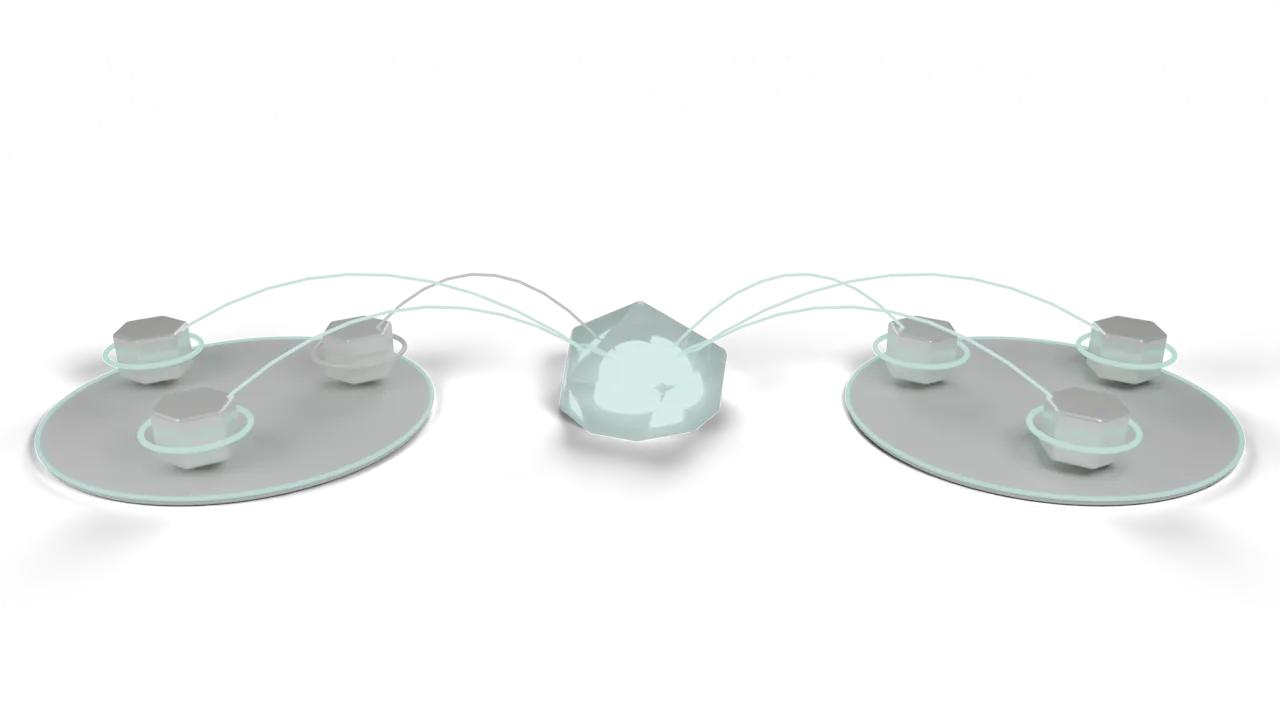
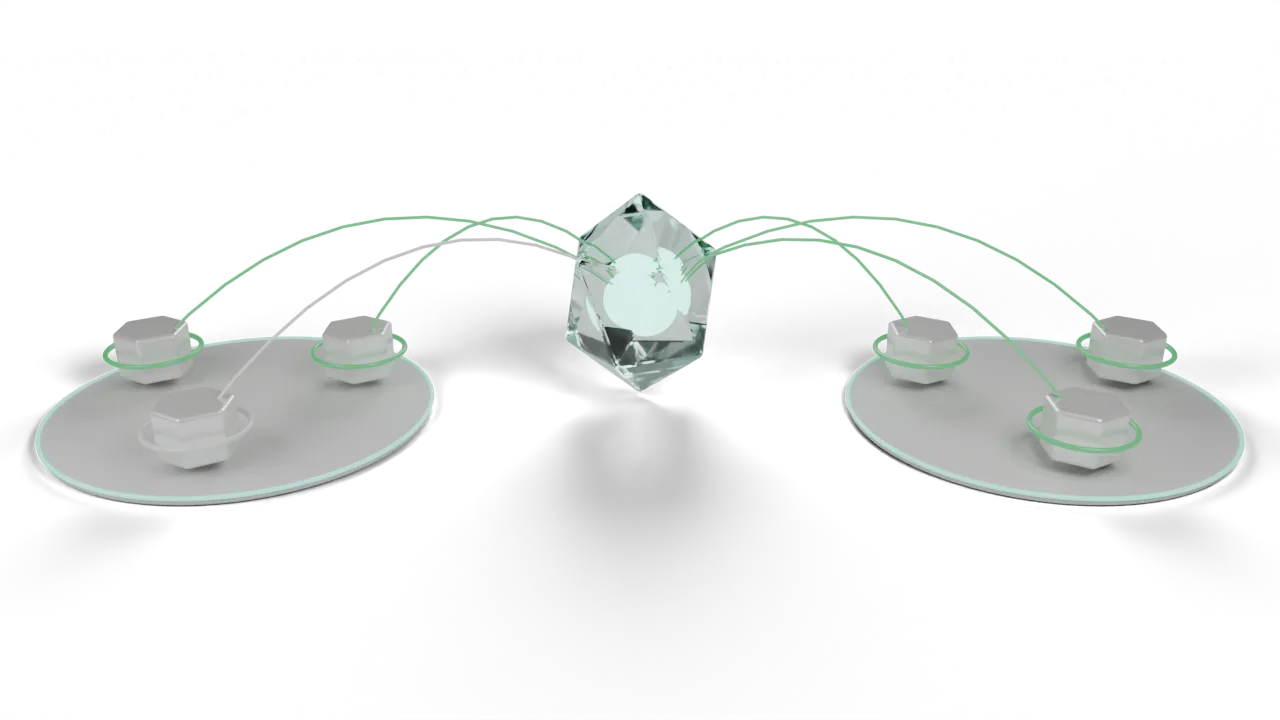
fix(integration-map): stand the core upright and match the still to the live scene
Blender's up axis is Z, so the core is now taller than it is wide rather
than deeper. The still lifts the core to where the arcs meet, places the
pods in the live scene's id order, and colours connected systems with the
light theme's success token instead of jade, so it matches the legend
drawn over it. The facet comment now says subdivisions 1 is the 20-face
icosahedron.

diff --git a/assets-src/3d/fallback.py b/assets-src/3d/fallback.py
@@ -2,7 +2,7 @@
 
 It composes the three built models the way the live scene does (Singapore's
 systems on the left, China HQ's on the right, arcs to the core), every system
-synced except the Excel master on its way out, and renders it with a
+connected except the Excel master on its way out, and renders it with a
 transparent background so it sits on either theme.
 
 Run after the models are built:  blender -b --factory-startup -P fallback.py -- <out.webp>
@@ -23,17 +23,21 @@ from lib import output_path, principled, reset_scene  # noqa: E402
 MODELS = os.path.join(os.path.dirname(os.path.abspath(__file__)), "../../apps/web/src/assets/3d")
 
 # The web scene's layout (three.js is Y up; Blender is Z up, so (x, y, z) becomes (x, -z, y)).
+# Pods stand in id order, the first at the front, as map-model.ts places them.
 CLUSTERS = {"SG": (-3.4, -0.4), "CN": (3.4, -0.4)}
 PODS = {
-    "SG": [("sg-hr", "synced"), ("teams", "synced"), ("excel-master", "retiring")],
-    "CN": [("cn-hq", "synced"), ("dingtalk", "synced"), ("oa", "synced")],
+    "SG": [("excel-master", "retiring"), ("sg-hr", "connected"), ("teams", "connected")],
+    "CN": [("cn-hq", "connected"), ("dingtalk", "connected"), ("oa", "connected")],
 }
 POD_LIFT = 0.35
 POD_RADIUS = 1.05
+# The core floats at the arcs' meeting point, a little smaller than its model (core-model.tsx).
+CORE_CENTRE = (0.0, 0.0, 0.9)
+CORE_SCALE = 0.85
 
-# Approximations of the design tokens: success for synced, muted for retiring.
-STATE_COLOUR = {"synced": (0.12, 0.62, 0.47), "retiring": (0.45, 0.45, 0.43)}
-JADE = (0.18, 0.72, 0.58)
+# The live scene's state colours in linear RGB: the light theme's --success, oklch(0.5 0.11 152),
+# for connected, and a muted grey for retiring. Rings and arcs both take the state's colour.
+STATE_COLOUR = {"connected": (0.019, 0.177, 0.055), "retiring": (0.45, 0.45, 0.43)}
 
 
 def import_model(name: str, location) -> list:
@@ -84,7 +88,9 @@ def build() -> None:
     reset_scene()
     scene = bpy.context.scene
 
-    import_model("core", (0.0, 0.0, 0.0))
+    for obj in import_model("core", CORE_CENTRE):
+        if obj.parent is None:
+            obj.scale = obj.scale * CORE_SCALE
     for cluster, (cx, cy) in CLUSTERS.items():
         import_model("platform", (cx, cy, 0.0))
         members = PODS[cluster]
@@ -94,8 +100,9 @@ def build() -> None:
             position = (cx + math.cos(angle) * POD_RADIUS, cy - math.sin(angle) * POD_RADIUS, POD_LIFT)
             pod = import_model("node-pod", position)
             colour = STATE_COLOUR[state]
-            tint(pod, "PodStatus", colour, 2.5 if state == "synced" else 0.4)
-            arc(position, (0.0, 0.0, 0.0), JADE if state == "synced" else colour, 1.0 if state == "synced" else 0.25)
+            live = state == "connected"
+            tint(pod, "PodStatus", colour, 2.5 if live else 0.4)
+            arc(position, CORE_CENTRE, colour, 1.0 if live else 0.25)
 
     # A shadow catcher grounds the scene; the rest of the image stays transparent.
     bpy.ops.mesh.primitive_plane_add(size=40.0, location=(0.0, 0.0, -0.04))

diff --git a/assets-src/3d/core.py b/assets-src/3d/core.py
@@ -16,7 +16,7 @@ import bpy  # noqa: E402
 from lib import bevel, export_glb, output_path, principled, reset_scene, shade  # noqa: E402
 
 RADIUS = 1.0
-FACETS = 1  # icosphere subdivisions: 1 gives 80 crisp facets
+FACETS = 1  # icosphere subdivisions: 1 is the icosahedron, 20 crisp facets
 INNER = 0.3
 
 
@@ -26,8 +26,8 @@ def build() -> None:
     bpy.ops.mesh.primitive_ico_sphere_add(subdivisions=FACETS, radius=RADIUS)
     shell = bpy.context.active_object
     shell.name = "Core"
-    # Taller than wide, like a cut gem standing on its point.
-    shell.scale = (0.86, 1.08, 0.86)
+    # Taller than wide, like a cut gem standing on its point (Blender's up axis is Z).
+    shell.scale = (0.86, 0.86, 1.08)
     shade(shell, smooth=False)
     bevel(shell, width=0.025, segments=2)
     shell.data.materials.append(
